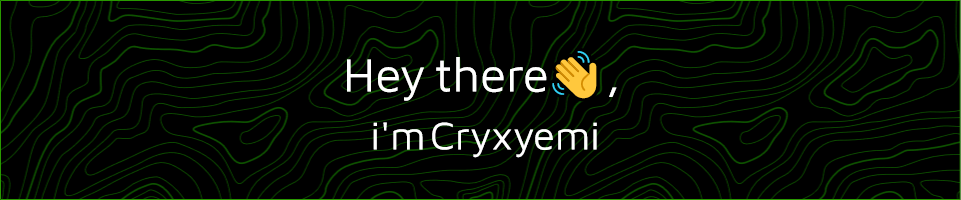
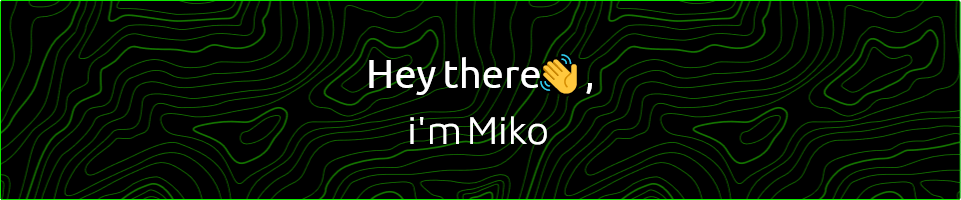
Changed Name

diff --git a/README.md b/README.md
@@ -1,12 +1,12 @@
 <div align="center">
-    <a href="https://github.com/Cryxyemi">
-        <img src="https://github.com/Cryxyemi/Cryxyemi/blob/main/Assets/header.png?raw=true" alt="Welcome Card">
+    <a href="https://github.com/Miko0187">
+        <img src="https://github.com/Miko0187/Miko0187/blob/main/Assets/header.png?raw=true" alt="Welcome Card">
     </a>
 </div>
 
 ***
 
-## <img src="https://github.com/Cryxyemi/Cryxyemi/blob/main/Assets/hand.gif?raw=true" alt="Hand" width="25px"> About me
+## <img src="https://github.com/Miko0187/Miko0187/blob/main/Assets/hand.gif?raw=true" alt="Hand" width="25px"> About me
 
 🏷 | I'm Maik,\
 🌍 | student from Germany.\
@@ -27,13 +27,13 @@
 ## 📊 My GitHub stats
 
 <div align="center">
-    <a href="https://github.com/Cryxyemi?tab=repositories">
-        <img src="https://github-readme-stats.vercel.app/api/top-langs/?username=Cryxyemi&layout=compact&theme=tokyonight&count_private=true" alt="Most used languages" title="Most used languages"/>
+    <a href="https://github.com/Miko0187?tab=repositories">
+        <img src="https://github-readme-stats.vercel.app/api/top-langs/?username=Miko0187&layout=compact&theme=tokyonight&count_private=true" alt="Most used languages" title="Most used languages"/>
     </a>
     </br>
     </br>
-    <a href="https://github.com/Cryxyemi">
-        <img src="https://github-readme-stats.vercel.app/api?username=Cryxyemi&theme=tokyonight&count_private=true" alt="Github Stats" title="Github Stats">
+    <a href="https://github.com/Miko0187">
+        <img src="https://github-readme-stats.vercel.app/api?username=Miko0187&theme=tokyonight&count_private=true" alt="Github Stats" title="Github Stats">
     </a>
 </div>
 
@@ -76,7 +76,7 @@
 ## 👁 Profile views
 
 <div align="center">
-    <a href="https://github.com/Cryxyemi">
-        <img src="https://komarev.com/ghpvc/?username=Cryxyemi&color=green&style=for-the-badge">
+    <a href="https://github.com/Miko0187">
+        <img src="https://komarev.com/ghpvc/?username=Miko0187&color=green&style=for-the-badge">
     </a>
 </div>
